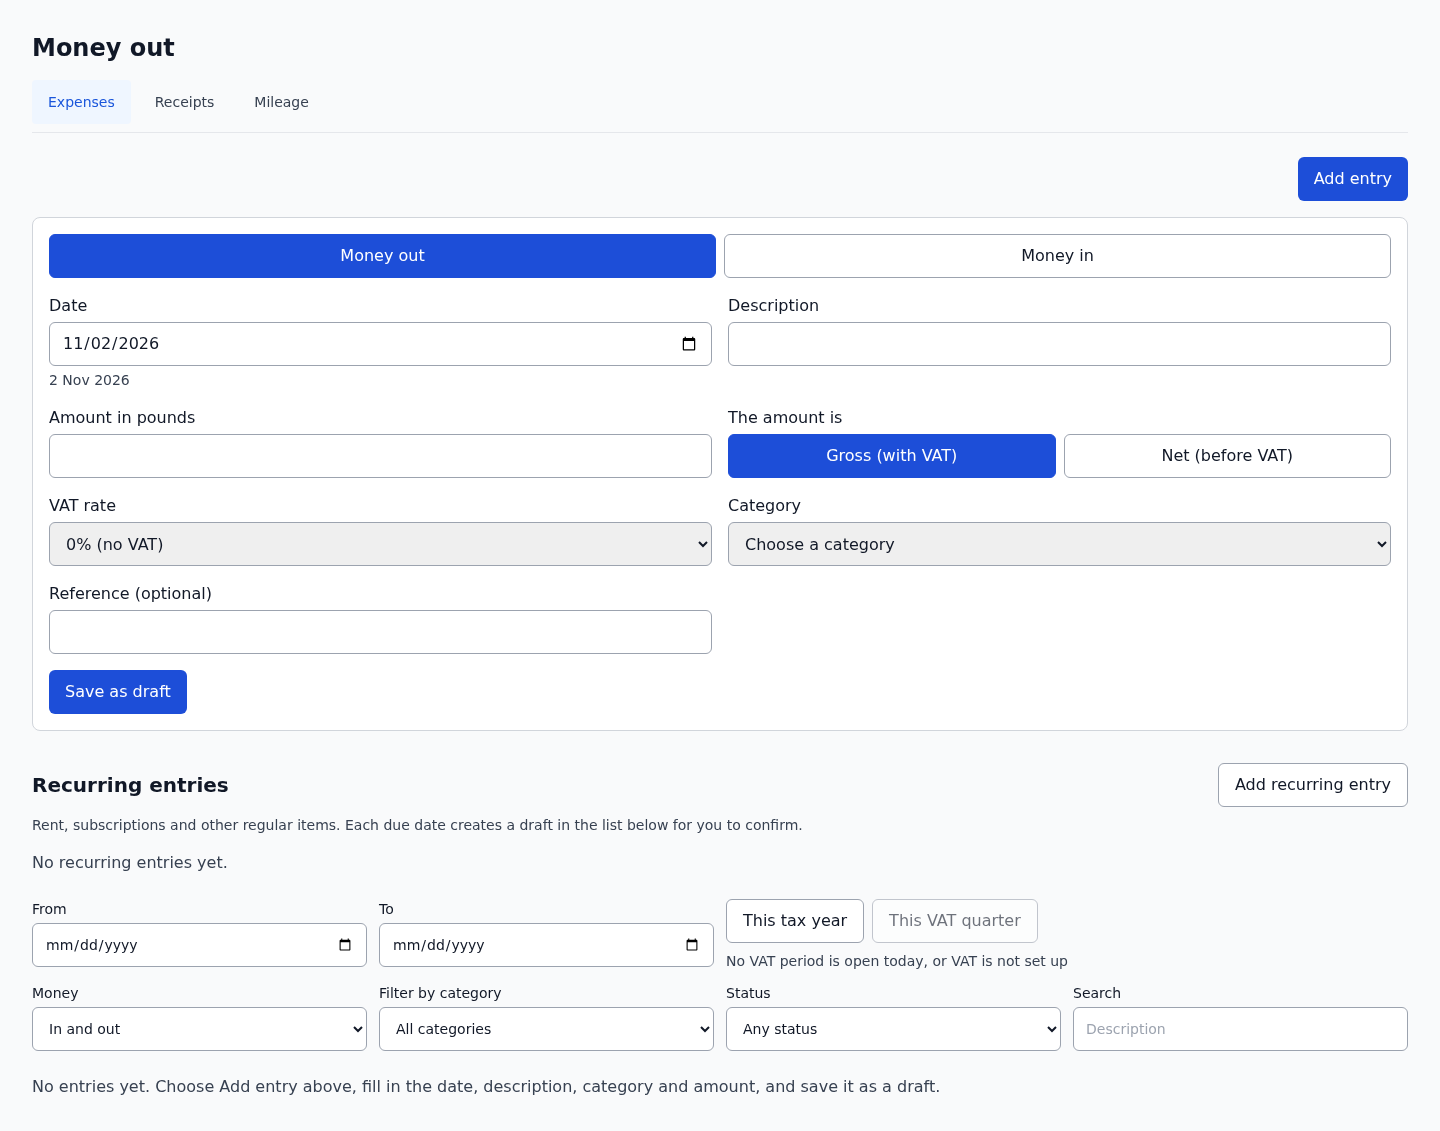
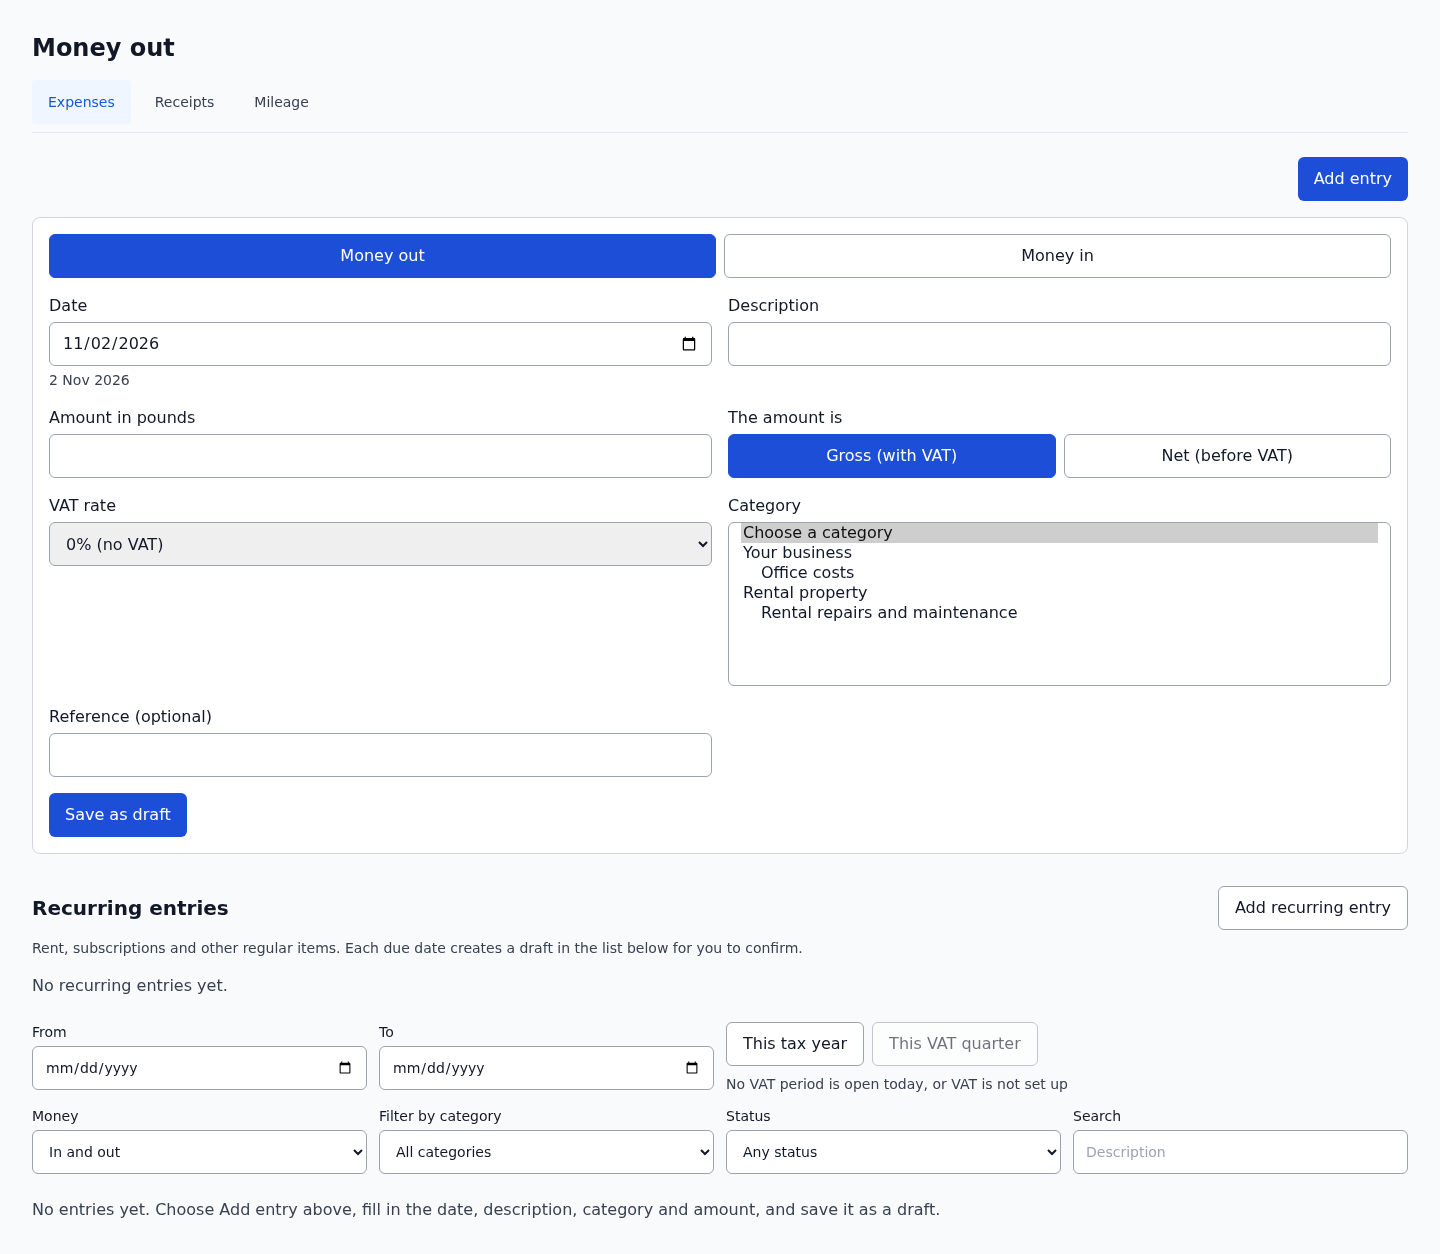
STF-109: show the Rental property group open in the money-out captures

diff --git a/e2e/journey.spec.ts b/e2e/journey.spec.ts
@@ -602,5 +602,7 @@ test('owner sees the rental prompt on the Tax page and the Rental property group
   await page.goto('/money-out');
   await page.getByRole('button', { name: 'Add entry' }).click();
   await expect(page.locator('#entry-category optgroup[label="Rental property"]')).toHaveCount(1);
+  // A closed native select hides its groups, so open the list in the page for the capture.
+  await page.locator('#entry-category').evaluate((select) => select.setAttribute('size', '8'));
   await capture('money-out-rental-group');
 });

diff --git a/src/pages/UkPropertyPrompt.tsx b/src/pages/UkPropertyPrompt.tsx
@@ -29,7 +29,7 @@ export default function UkPropertyPrompt() {
 
   return (
     <section className="mt-6 rounded border border-gray-300 p-4" aria-labelledby="rental-heading">
-      <h3 id="rental-heading" className="font-medium text-gray-900">Do you let out a property in the UK?</h3>
+      <h3 id="rental-heading" className="font-semibold text-gray-900">Do you let out a property in the UK?</h3>
       <OfficialName>UK property income</OfficialName>
       {isOn ? (
         <p className="mt-2 text-gray-700">
